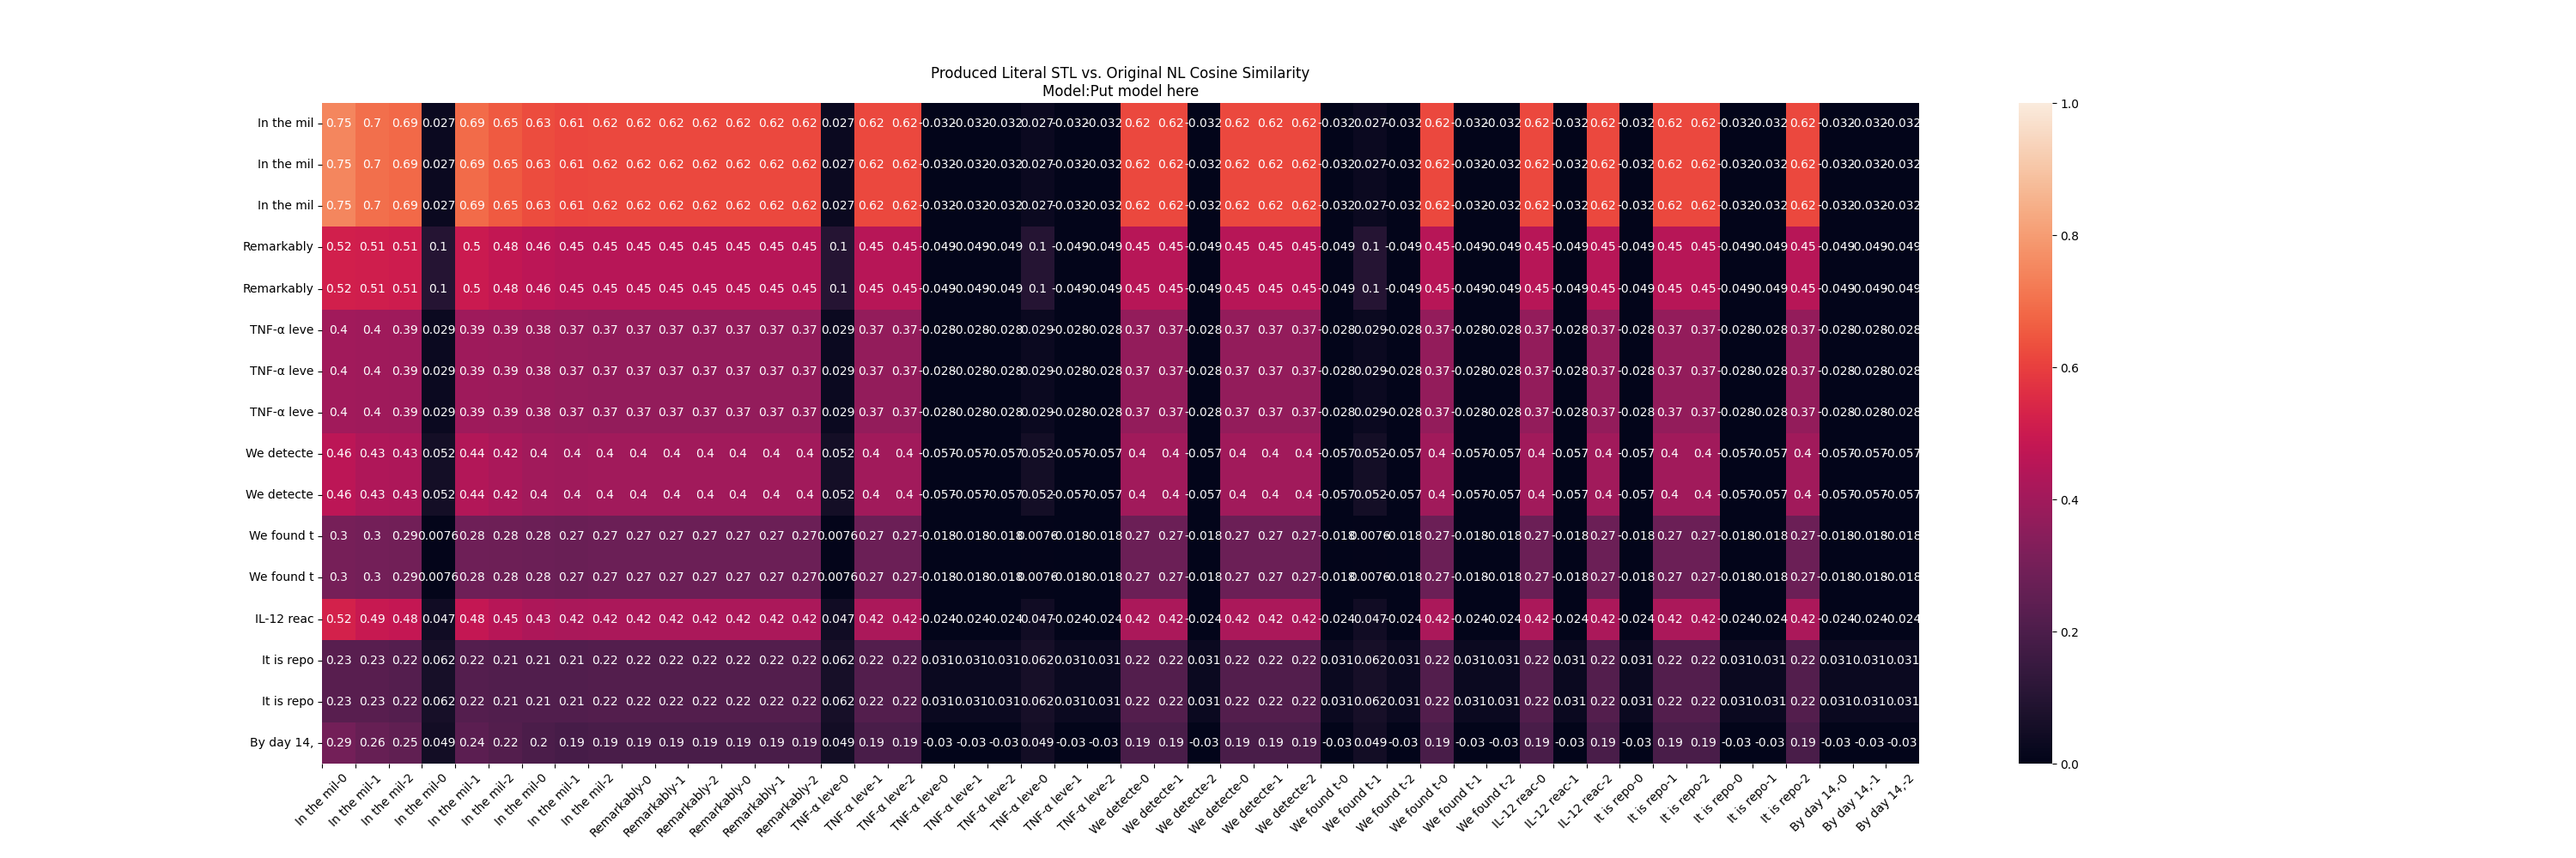
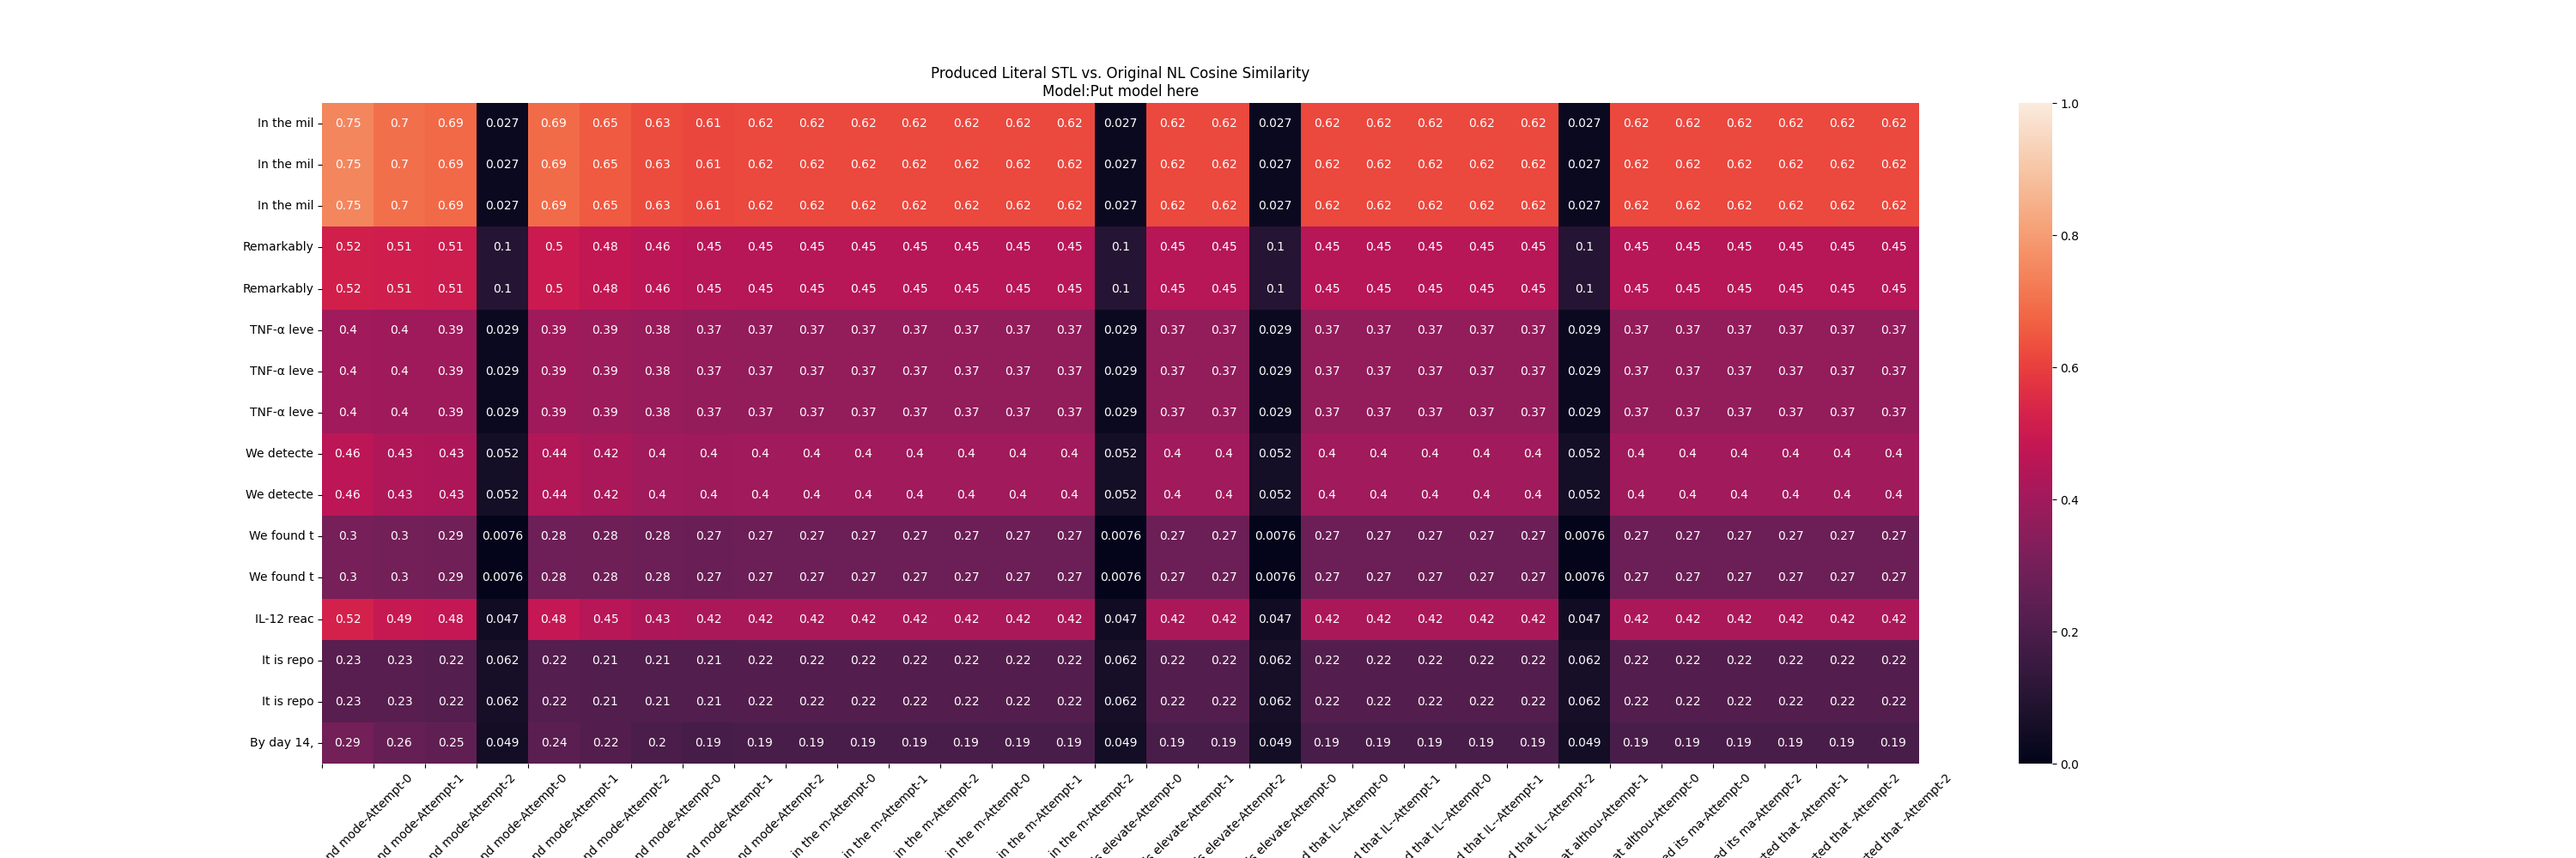
removed cols

Changed region(s): [[0.124, 0.093, 0.744, 1.0], [0.341, 0.992, 0.372, 1.0]]

diff --git a/ollama_container/heatmap_generators/stl_evaluation.py b/ollama_container/heatmap_generators/stl_evaluation.py
@@ -70,7 +70,7 @@ total_sentences_success_rate_table['STL Parsing Success Rate'] = np.where(num_to
 total_sentences_success_rate_table['Literal Translation Success Rate'] = np.where(num_total_passed_parsing==0, 0, 1-(total_sentences_success_rate_table['Literal Translation Success Rate'] / num_total_passed_parsing))
 
 translations.to_csv('mmm.csv')
-
+i
 stats = pandas.concat([per_sentence_success_rate_table, total_sentences_success_rate_table], ignore_index=True)
 print(stats)
 stats.to_csv('stats.csv', index=False)
@@ -87,22 +87,24 @@ stats.to_csv('stats.csv', index=False)
 # remove all columns from the table that don't correspond to actual translations
 nl_sentence_embeddings = embedding_model.encode(translations['input statement'], normalize_embeddings=True)
 literal_sentence_embeddings = embedding_model.encode(translations.filter(regex='Literal-').copy().to_numpy().flatten(), normalize_embeddings=True)
+
 nl_sentences = np.array(translations['input statement'].str[:10])
 
 literal_sentences = translations.filter(regex='Literal-').copy()
 for col in literal_sentences.columns:
-    # literal_sentences[col] = translations['input statement'] np.where(literal_sentences[col]==None, 'Literal could not be generated', literal_sentences[col])
-    literal_sentences[col] = translations['input statement'].str[:10] + "-" + str(col.split('-')[1])
+    literal_sentences[col] = np.where((literal_sentences[col]==None) | (literal_sentences[col]=='Literal could not be generated') | (literal_sentences[col]=='STL to literal failed'), literal_sentences[col], "Sentence-" + translations['input statement'].str[:20] + "-Attempt-" + str(col.split('-')[1]))
+
 literal_sentences = literal_sentences.to_numpy().flatten()
-"""
-print("--------------------------------------------------------------------------------------------")
-print(literal_sentences)
-print("--------------------------------------------------------------------------------------------")
-print(literal_sentences.shape)
-print("--------------------------------------------------------------------------------------------")
-"""
+indices_to_remove = []
+for _id,l in enumerate(literal_sentences):
+    if l=='Literal could not be generated' or l=='STL to literal failed' or l==None:
+        indices_to_remove.append(_id)
+
+literal_sentences_clean = [x for x in literal_sentences if x != "Literal could not be generated" and x != 'STL to literal failed' and x != None ]
+literal_sentence_embeddings_clean = [x for _id, x in enumerate(literal_sentence_embeddings) if _id not in indices_to_remove ]
+
 # compute similarity matrix
-sim_matrix = cosine_similarity(np.array(nl_sentence_embeddings), np.array(literal_sentence_embeddings))
+sim_matrix = cosine_similarity(np.array(nl_sentence_embeddings), np.array(literal_sentence_embeddings_clean))
 
 #print("here are the literal sentence labels:")
 #print(literal_sentences.shape)
@@ -126,9 +128,9 @@ print("-------------------------------------------------------------------------
 plt.figure(figsize=(30,10))
 ax = sns.heatmap(sim_matrix, annot=True, vmin=0, vmax=1)
 plt.title(f'Produced Literal STL vs. Original NL Cosine Similarity\nModel:Put model here')
-ax.set_xticks(range(len(literal_sentences)))
+ax.set_xticks(range(len(literal_sentences_clean)))
 ax.set_yticklabels(nl_sentences, rotation=0)
-ax.set_xticklabels(literal_sentences, rotation=45)
+ax.set_xticklabels(literal_sentences_clean, rotation=45)
 plt.savefig(f'../images/produced_literal_vs_original_nl_test.png')
 
 print("DONE WITH THE FIRST IMAGE")
